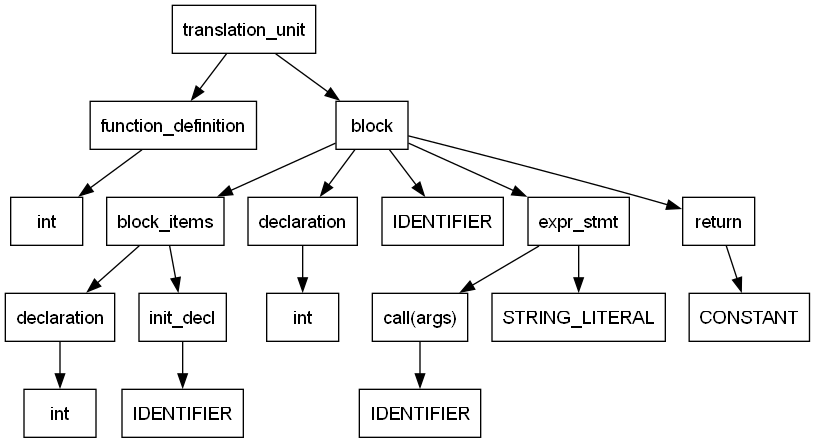
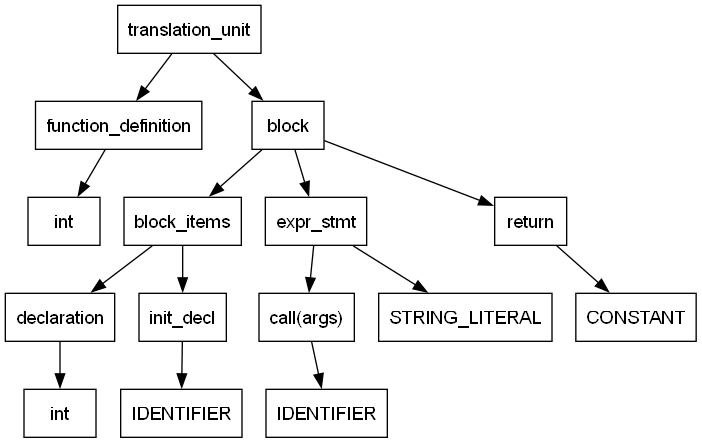
error handling

diff --git a/server/syntax/parse_tree_to_dot.js b/server/syntax/parse_tree_to_dot.js
@@ -4,8 +4,37 @@ const fs = require('fs');
 const path = require('path');
 
 function parseTreeToDot(inputFile, outputFile) {
+    // Check if input file exists
+    if (!fs.existsSync(inputFile)) {
+        // console.log(`Warning: Input file '${inputFile}' not found. Creating empty parse tree.`);
+        const emptyDotContent = [
+            'digraph ParseTree {',
+            'node [shape=box, fontname="Arial"];',
+            'edge [fontname="Arial"];',
+            '  error [label="No parse tree available\\n(Syntax analysis failed or no valid code)"];',
+            '}'
+        ];
+        fs.writeFileSync(outputFile, emptyDotContent.join('\n'));
+        return;
+    }
+
     // Read the input file
     const lines = fs.readFileSync(inputFile, 'utf8').split('\n');
+    
+    // Check if file is empty or has no meaningful content
+    const meaningfulLines = lines.filter(line => line.trim().length > 0);
+    if (meaningfulLines.length === 0) {
+        console.log(`Warning: Input file '${inputFile}' is empty. Creating empty parse tree.`);
+        const emptyDotContent = [
+            'digraph ParseTree {',
+            'node [shape=box, fontname="Arial"];',
+            'edge [fontname="Arial"];',
+            '  error [label="No parse tree available\\n(Empty or invalid input)"];',
+            '}'
+        ];
+        fs.writeFileSync(outputFile, emptyDotContent.join('\n'));
+        return;
+    }
     
     // Initialize DOT file
     const dotContent = [

diff --git a/server/lexical/input.cc b/server/lexical/input.cc
@@ -2,7 +2,6 @@
 
 int main() {
     int b=10;
-    int cc;
     printf("Welcome to Nano CC Compiler"); 
     return 0;
 }
